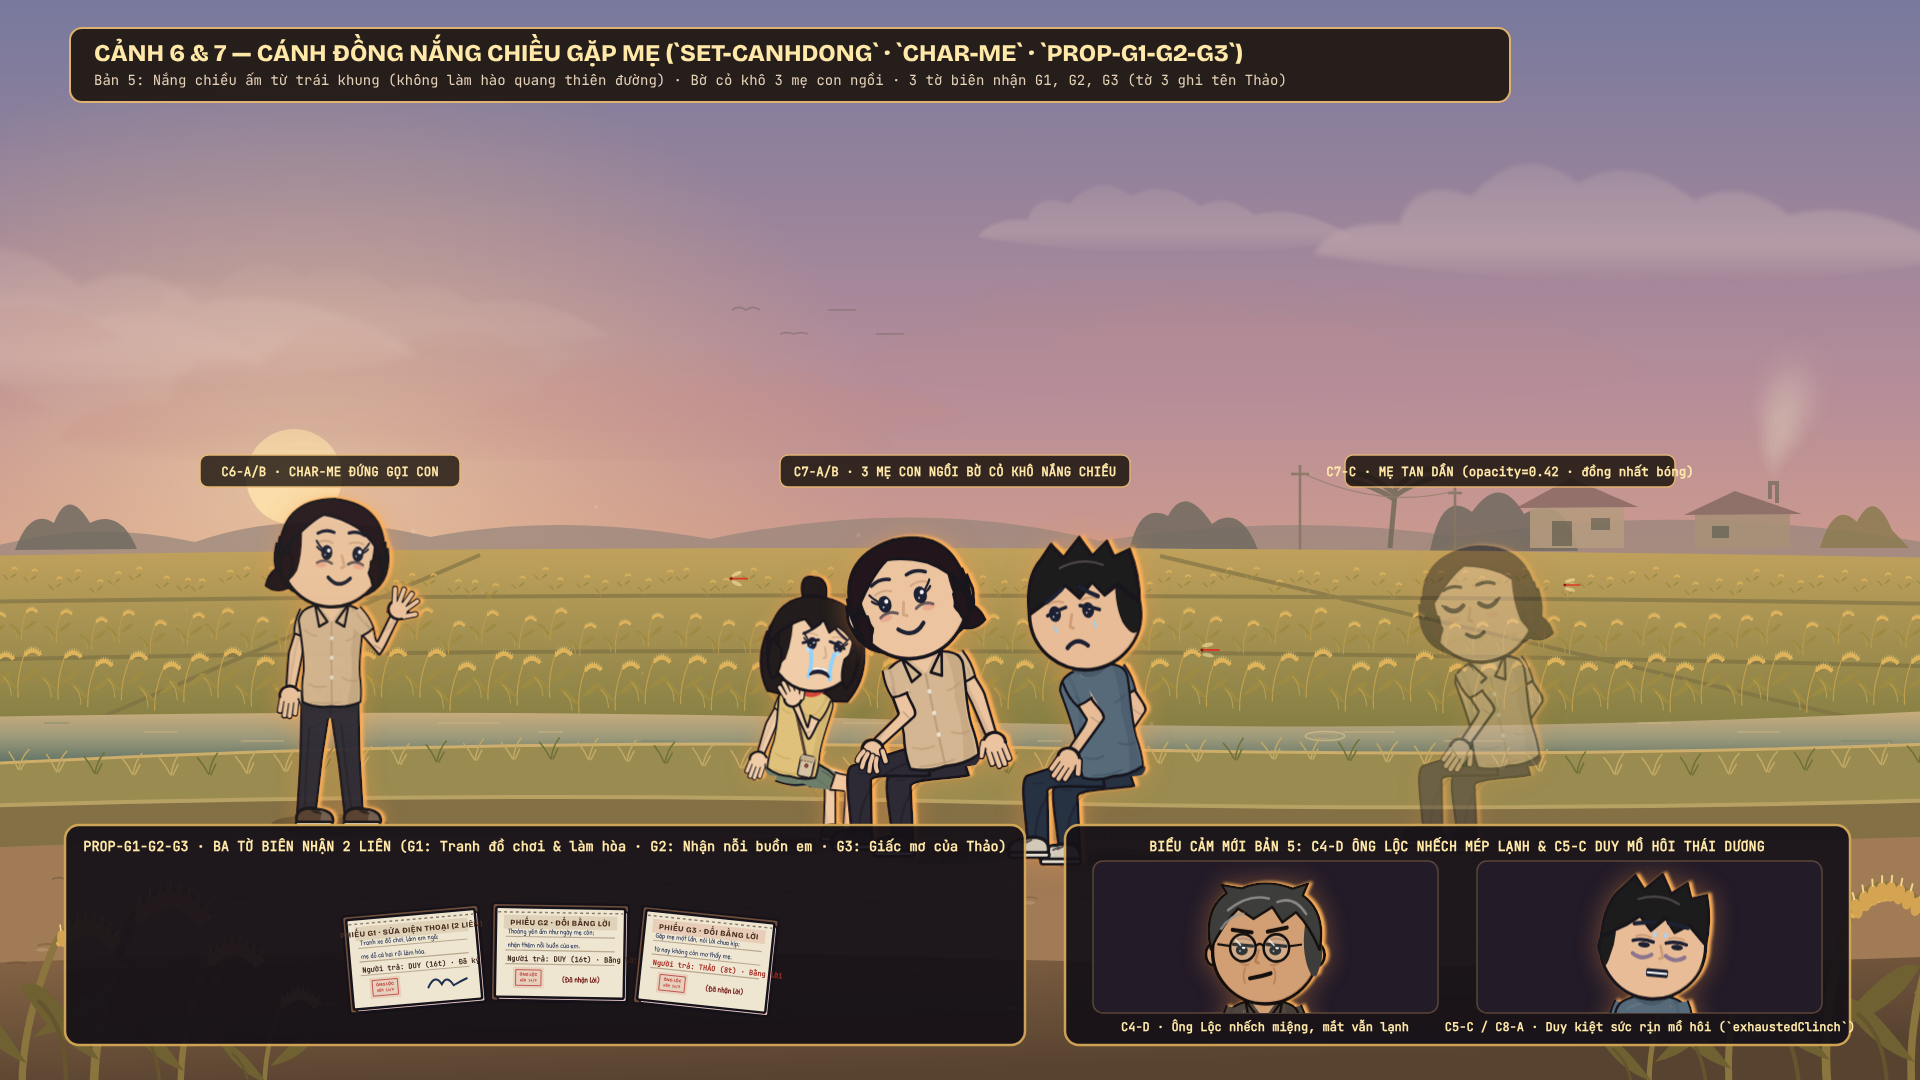
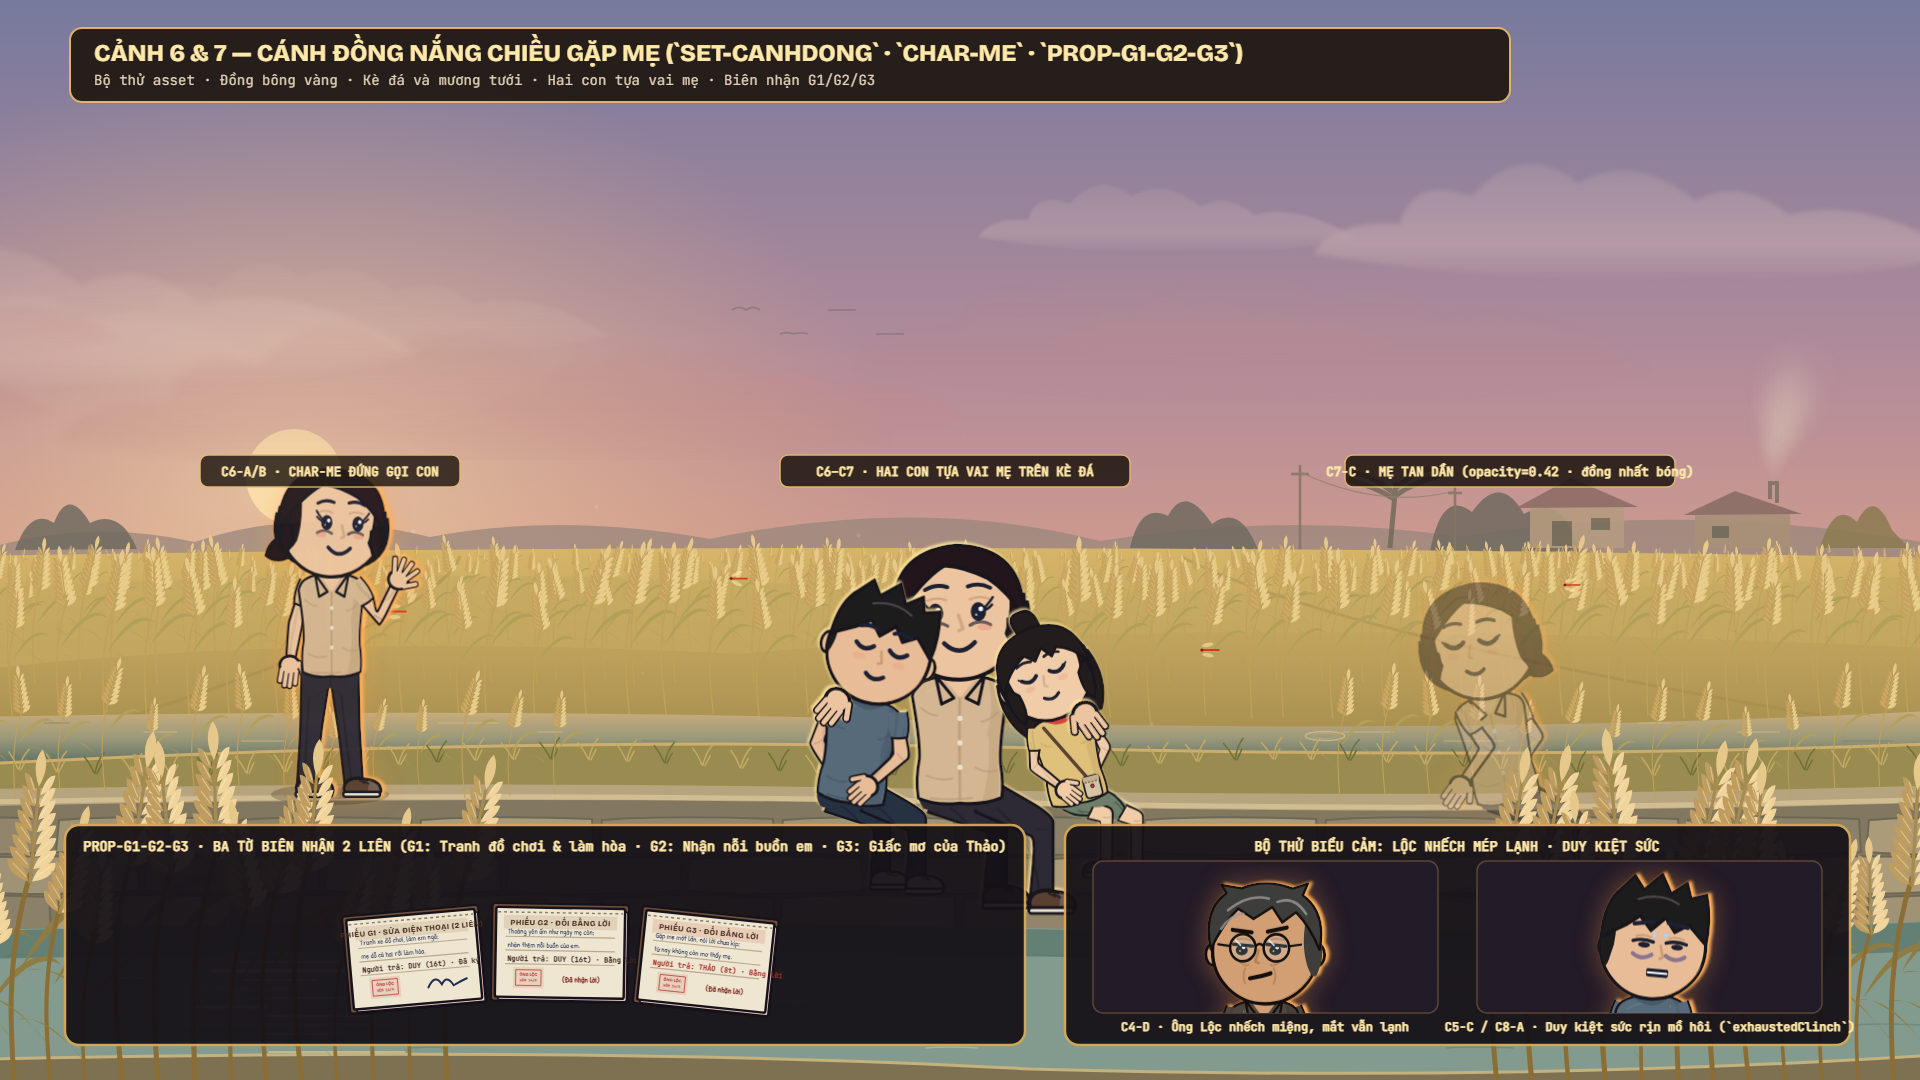
Publish golden field embrace previews and verify separated seated feet

diff --git a/what-if-studio/src/CastSheet.tsx b/what-if-studio/src/CastSheet.tsx
@@ -842,7 +842,7 @@ export const MeadowAndDealsSheet: React.FC = () => (
       <g transform="translate(955 455)">
         <rect x={-175} y={0} width={350} height={32} rx={8} fill="#1C140E" opacity={0.86} stroke="#E8B86D" strokeWidth={1.5} />
         <text x={0} y={21} textAnchor="middle" fontFamily={FONT.ui} fontWeight={700} fontSize={12.5} fill="#FFE8A8">
-          C7-A/B · 3 MẸ CON NGỒI BỜ CỎ KHÔ NẮNG CHIỀU
+          C6–C7 · HAI CON TỰA VAI MẸ TRÊN KÈ ĐÁ
         </text>
       </g>
 
@@ -877,7 +877,7 @@ export const MeadowAndDealsSheet: React.FC = () => (
           CẢNH 6 & 7 — CÁNH ĐỒNG NẮNG CHIỀU GẶP MẸ (`SET-CANHDONG` · `CHAR-ME` · `PROP-G1-G2-G3`)
         </text>
         <text x={24} y={57} fontFamily={FONT.ui} fontSize={14} fill="#E5D2B8">
-          Bản 5: Nắng chiều ấm từ trái khung (không làm hào quang thiên đường) · Bờ cỏ khô 3 mẹ con ngồi · 3 tờ biên nhận G1, G2, G3 (tờ 3 ghi tên Thảo)
+          Bộ thử asset · Đồng bông vàng · Kè đá và mương tưới · Hai con tựa vai mẹ · Biên nhận G1/G2/G3
         </text>
       </g>
 
@@ -894,7 +894,7 @@ export const MeadowAndDealsSheet: React.FC = () => (
       <g transform="translate(1065 825)">
         <rect x={0} y={0} width={785} height={220} rx={14} fill="#161118" opacity={0.94} stroke="#D4A857" strokeWidth={2.5} />
         <text x={392} y={26} textAnchor="middle" fontFamily={FONT.ui} fontWeight={700} fontSize={13.5} fill="#FFE8A8">
-          BIỂU CẢM MỚI BẢN 5: C4-D ÔNG LỘC NHẾCH MÉP LẠNH & C5-C DUY MỒ HÔI THÁI DƯƠNG
+          BỘ THỬ BIỂU CẢM: LỘC NHẾCH MÉP LẠNH · DUY KIỆT SỨC
         </text>
         <defs>
           <clipPath id="b5Expr1">
